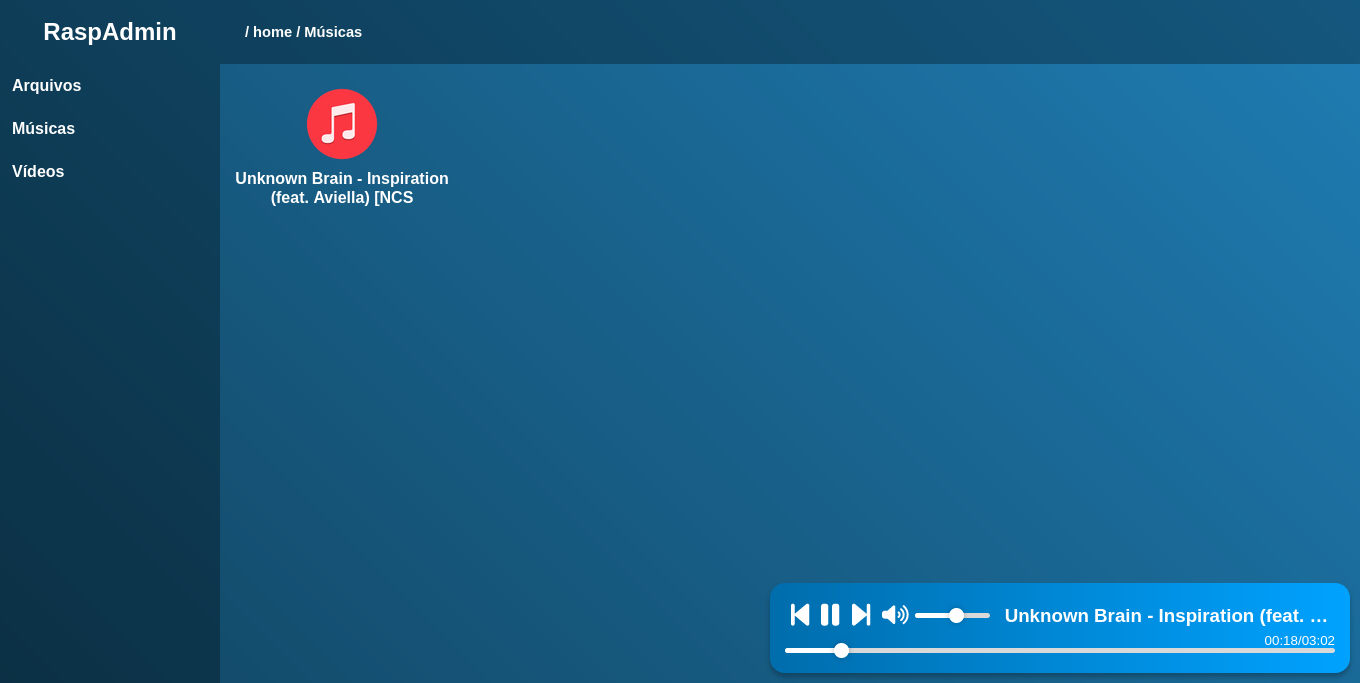
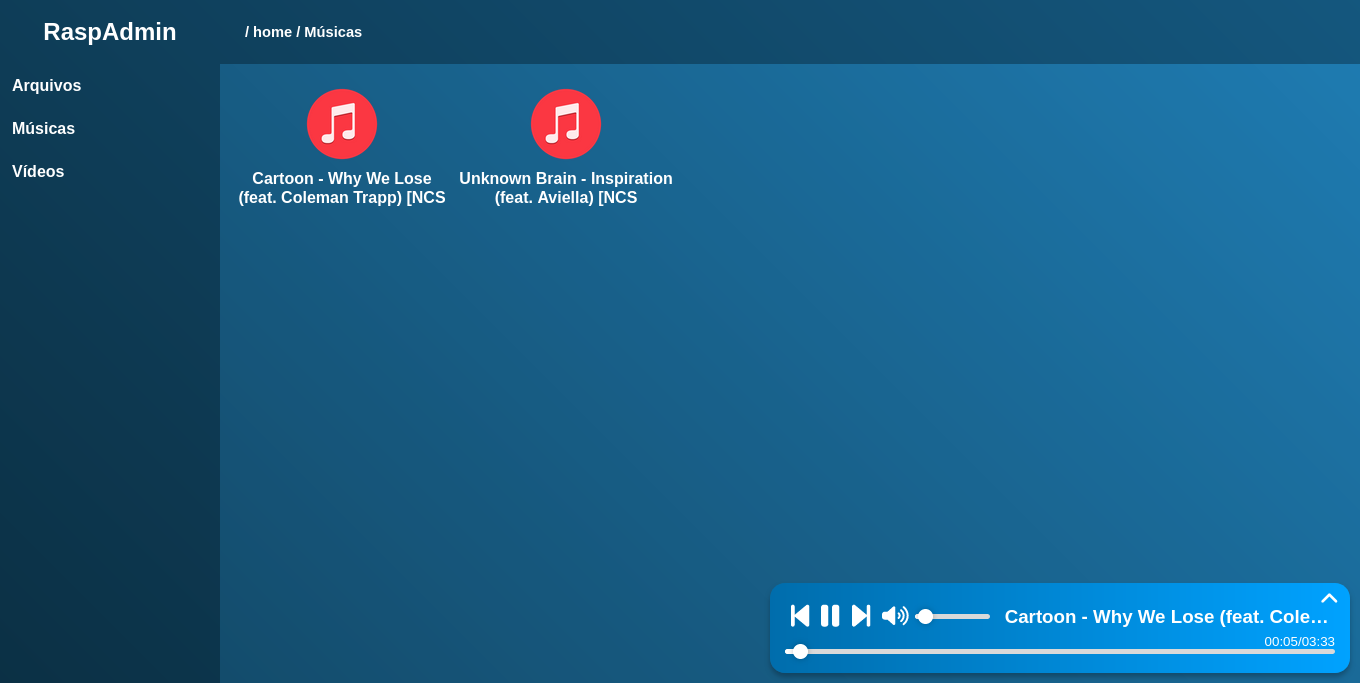
Atualizando apresentação

diff --git a/README.md b/README.md
@@ -10,6 +10,9 @@ Capaz de reproduzir vídeo e músicas
 ### Reprodução de músicas
 ![audio_player](_images/audio_player.png)
 
+### Reprodução de músicas com playlist
+![audio_player](_images/audio_playlist.png)
+
 ### Reprodução de vídeo
 ![video_player](_images/video_player.png)
 
